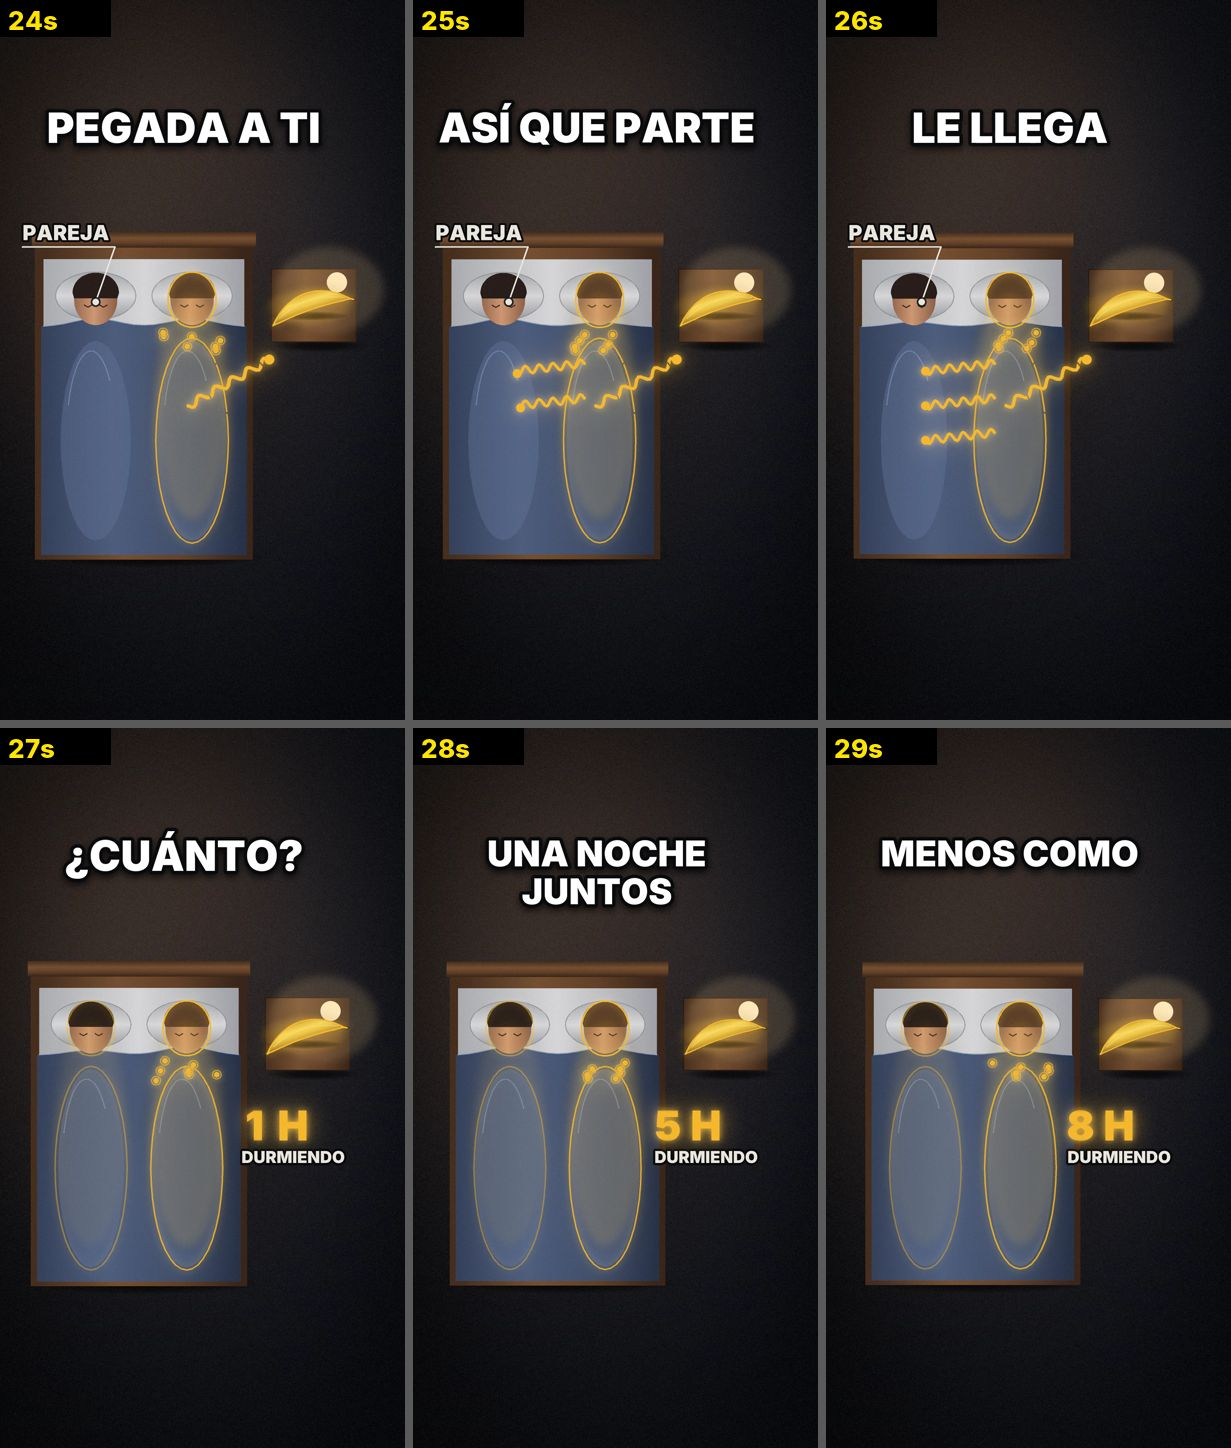
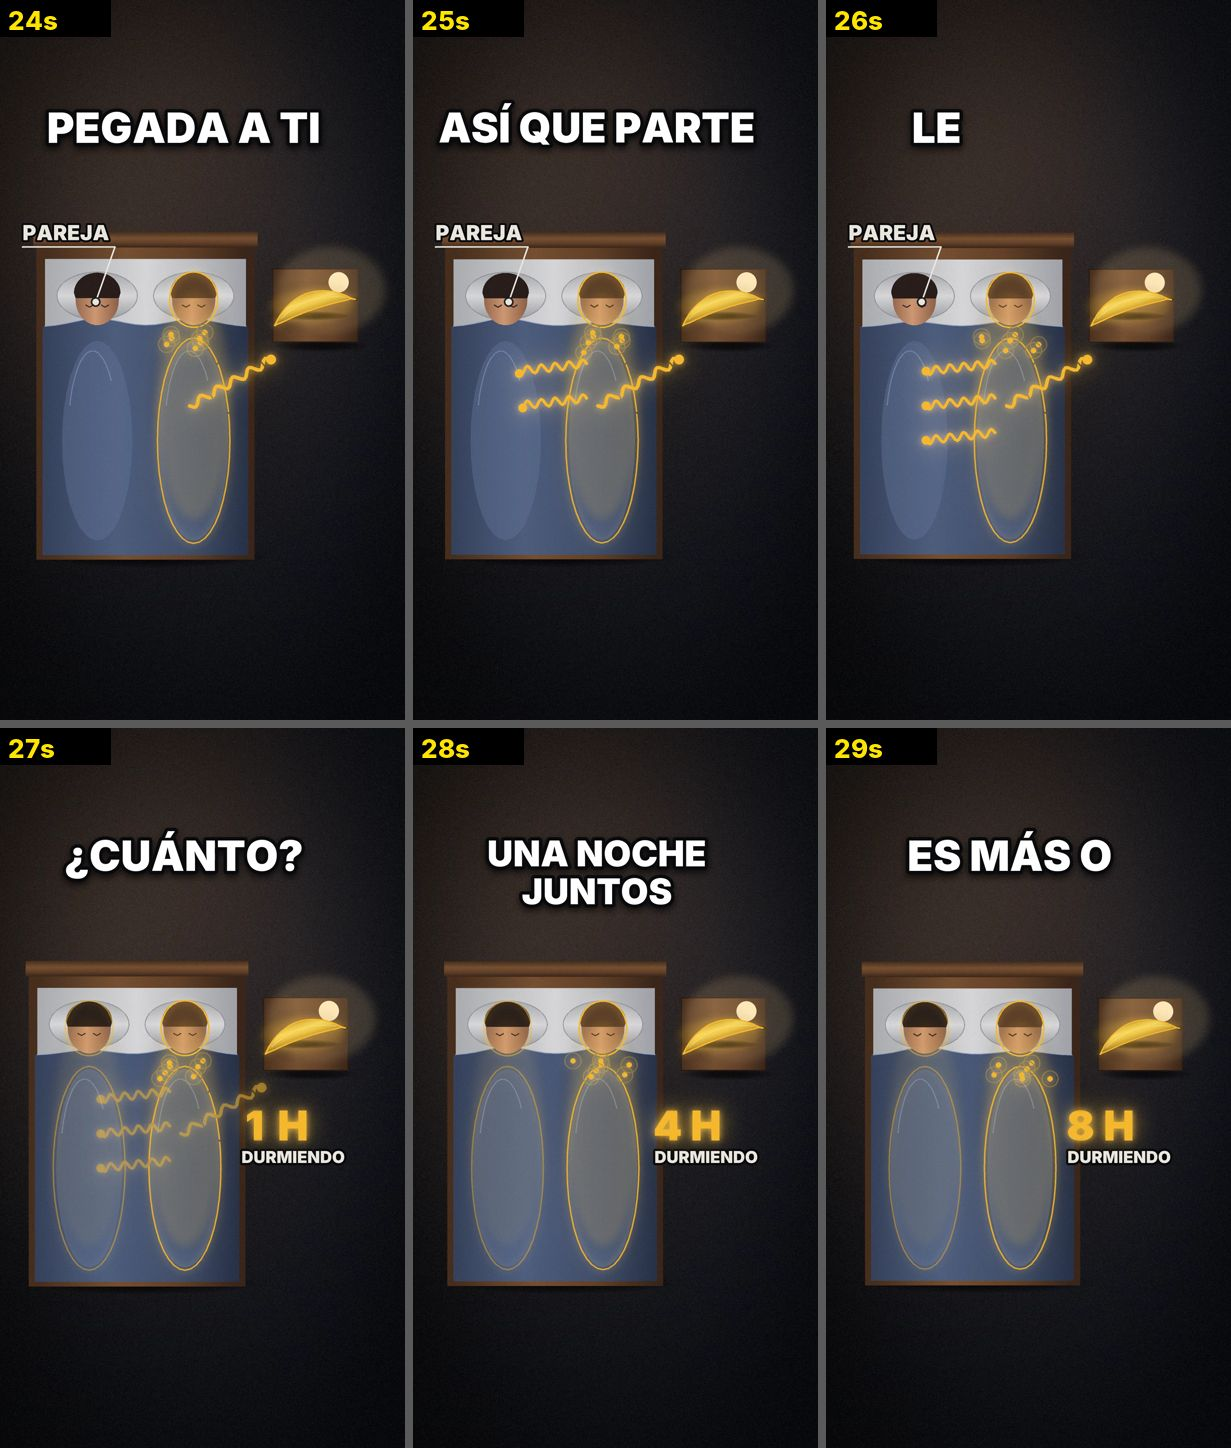
Ep. 17: subtítulo 'pila de plátanos' / 'le gana'

diff --git a/studio/episodios/ep17-radiacion-pareja/escena2d/video.py b/studio/episodios/ep17-radiacion-pareja/escena2d/video.py
@@ -35,7 +35,7 @@ MEZCLA = os.path.join(EP, "mezcla.wav")
 EST = A.EST
 TINTA, ORO, VERDE = A.TINTA, A.ORO, A.VERDE
 CLAVES = ["irradia", "central nuclear", "plátano", "potasio", "radiactiva", "también", "cuatro mil", "rayo gamma",
-          "pareja", "Inofensivo", "un año de noches", "le gana", "plátano gigante", "tóxico", "tóxica"]
+          "pareja", "Inofensivo", "un año de noches", "pila de plátanos", "le gana", "plátano gigante", "tóxico", "tóxica"]
 an, tr, ee, es, eo = K.anim, K.tramo, K.ease_entrada, K.ease_salida, K.ease_estado
 
 

diff --git a/studio/episodios/ep17-radiacion-pareja/qa/subtitulos.md b/studio/episodios/ep17-radiacion-pareja/qa/subtitulos.md
@@ -1,25 +1,25 @@
 # Qué dice la voz en cada segundo
 
--  0 s: Un año en esta cama
--  1 s: te irradia más
--  2 s: que un año junto a
--  3 s: una central nuclear.
+-  0 s: Dormir con tu pareja
+-  1 s: un año te irradia
+-  2 s: más que un año junto
+-  3 s: a una central nuclear.
 -  4 s: ¿Por qué?
--  5 s: Por lo mismo que este
--  6 s: plátano: potasio.
--  7 s: Una pizca
--  8 s: de ese potasio
+-  5 s: Por lo mismo que
+-  6 s: este plátano:
+-  7 s: potasio. Una
+-  8 s: pizca de ese potasio
 -  9 s: es radiactiva.
 - 10 s: Y tu cuerpo
 - 11 s: tiene mucho potasio.
-- 12 s: Así que tú
-- 13 s: también eres un poquito
-- 14 s: radiactivo. Cada
-- 15 s: segundo,
-- 16 s: unos cuatro mil de esos
-- 17 s: átomos se desintegran
-- 18 s: dentro de ti.
-- 19 s: Algunos sueltan
+- 12 s: Así que
+- 13 s: tú también eres un poquito
+- 14 s: radiactivo.
+- 15 s: Cada segundo,
+- 16 s: unos cuatro mil de
+- 17 s: esos átomos se desintegran
+- 18 s: dentro de
+- 19 s: ti. Algunos sueltan
 - 20 s: un rayo gamma que
 - 21 s: atraviesa tu piel y
 - 22 s: sale. Tu pareja
@@ -28,16 +28,16 @@
 - 25 s: de esos rayos le
 - 26 s: llega. ¿Cuánto?
 - 27 s: Una noche juntos
-- 28 s: es más o menos como
-- 29 s: comerte un plátano.
-- 30 s: Inofensivo.
-- 31 s: Pero súmale un
-- 32 s: año de noches.
-- 33 s: Esa pila de plátanos
-- 34 s: le gana a la central.
-- 35 s: Cada noche
-- 36 s: duermes abrazado
-- 37 s: a un plátano gigante.
-- 38 s: Mándaselo
-- 39 s: a tu tóxico o
-- 40 s: a tu tóxica.
+- 28 s: es más o
+- 29 s: menos como comerte un
+- 30 s: plátano.
+- 31 s: Inofensivo. Pero
+- 32 s: súmale un año de noches.
+- 33 s: Esa
+- 34 s: pila de plátanos le gana
+- 35 s: a la central.
+- 36 s: Cada noche duermes
+- 37 s: abrazado a un plátano
+- 38 s: gigante.
+- 39 s: Mándaselo a tu tóxico
+- 40 s: o a tu tóxica.
